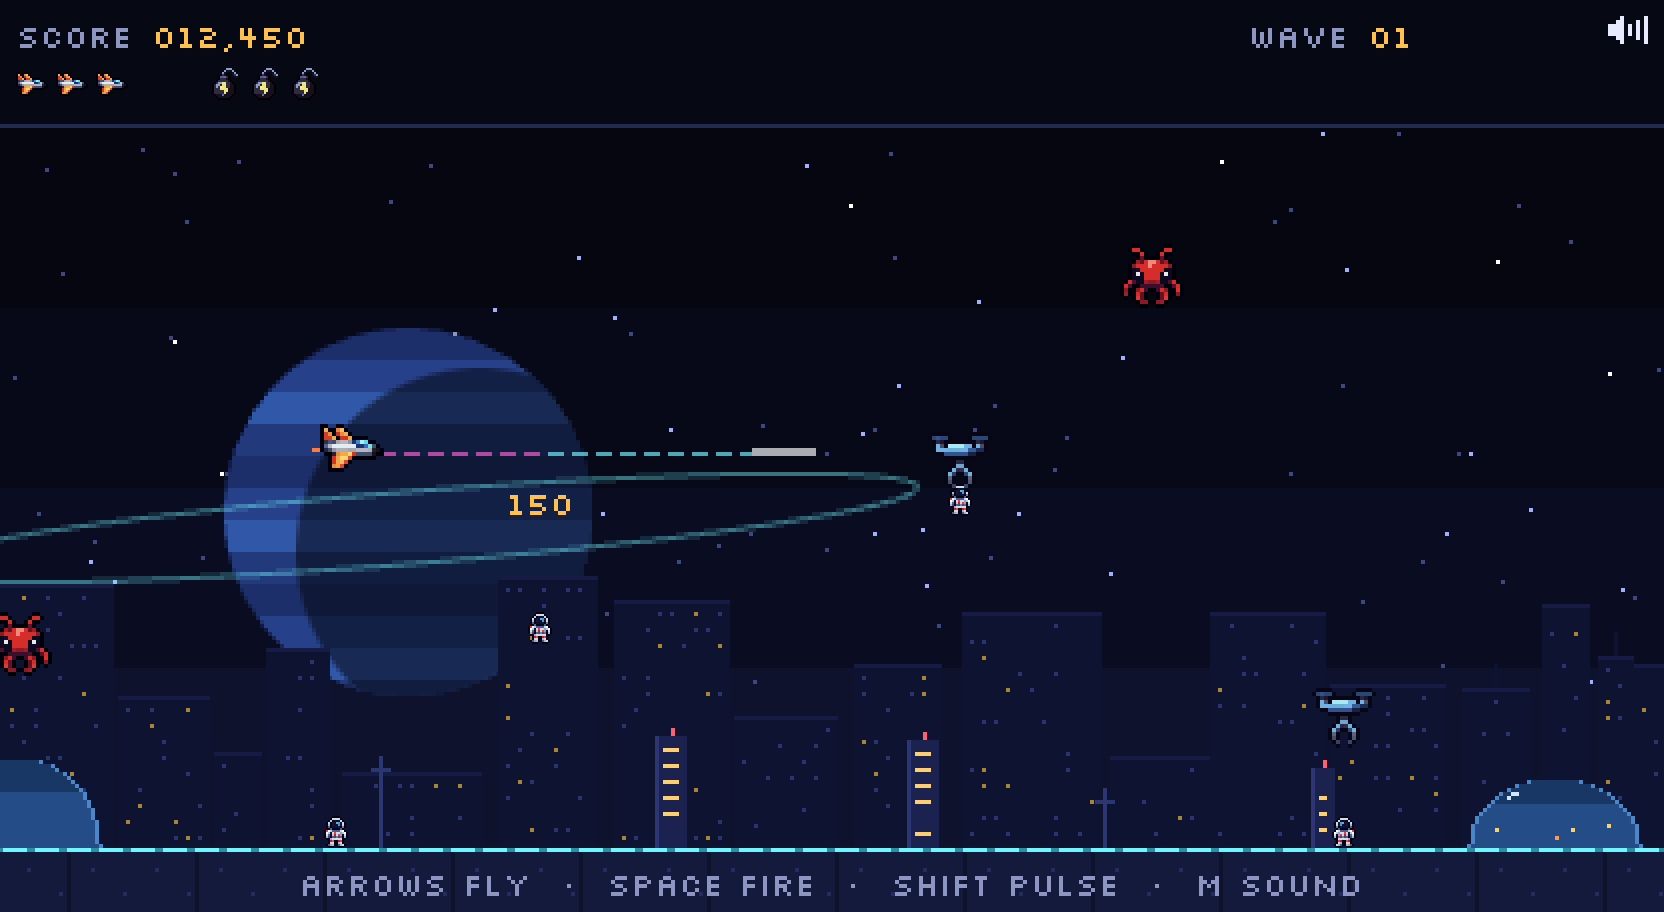
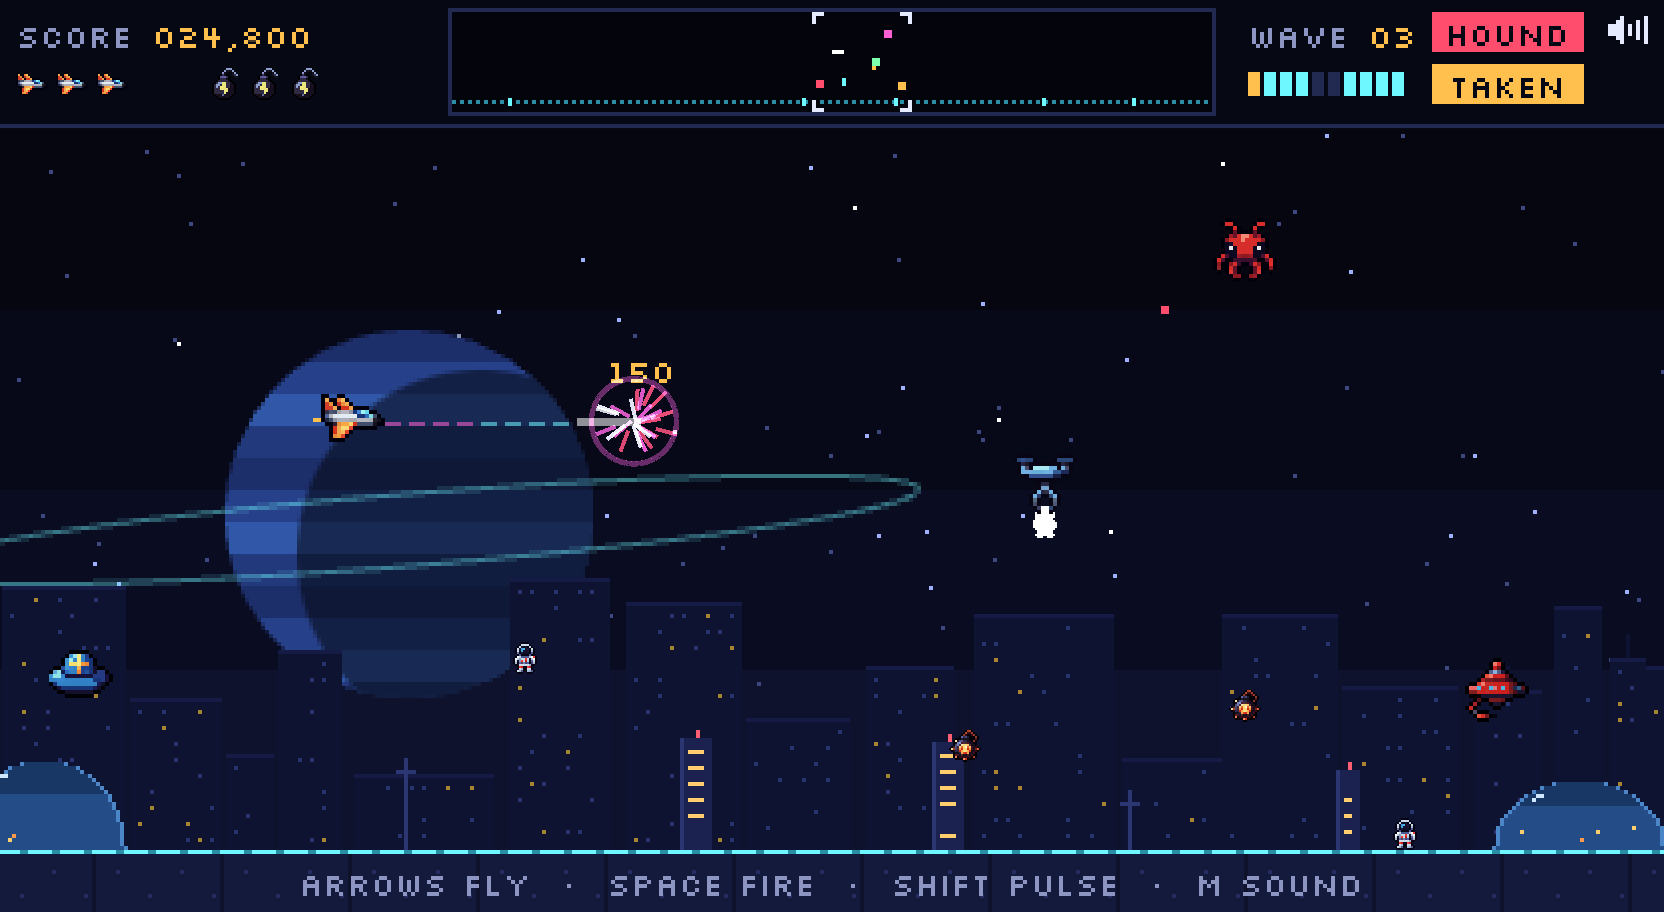
Refresh README and screenshot for the full game
Status now reads feature-complete, with the balance pass and a real-phone
check still to come. Adds the rules for enemy fire, the pulse, waves,
Hounds and the dark ring, the full roster with mines, a Touch column in
the controls, and a new hero screenshot.

diff --git a/README.md b/README.md
@@ -4,7 +4,7 @@
 
 **Hold the ring. Shoot the Snatchers. Catch the colonists.**
 
-A side-scrolling patrol shooter on a looping orbital ring. It runs in the browser with a keyboard and mouse or a controller.
+A side-scrolling patrol shooter on a looping orbital ring. It runs in the browser with a keyboard and mouse, a controller, or touch on a phone.
 
 ### [▶ Play it now](https://leeeeeroyj.github.io/sentinel/)
 
@@ -14,7 +14,7 @@ A side-scrolling patrol shooter on a looping orbital ring. It runs in the browse
 ![Vite](https://img.shields.io/badge/Vite-8-646cff?logo=vite&logoColor=white)
 [![License: MIT](https://img.shields.io/badge/License-MIT-yellow.svg)](LICENSE)
 
-![Sentinel gameplay: the patrol craft fires its laser across the ring while a Snatcher lifts a colonist away, another drops onto the hull, a rescued colonist falls and two Husks close in](docs/screenshot.png)
+![Sentinel gameplay: the patrol craft destroys a Husk with its laser while a Snatcher lifts a colonist away, a Hound and a Husk close in, a Minelayer leaves mines behind it, and the scanner and alarm lamps light up the top bar](docs/screenshot.png)
 
 </div>
 
@@ -25,19 +25,15 @@ Sentinel is an original arcade game inspired by the mechanics of Williams Electr
 - **A world that loops.** Fly far enough either way and you come back round to where you started. The hull's domes, towers and masts repeat every lap, so you learn the ring as you play.
 - **Push the way you want to go.** No thrust or reverse buttons: push left or right to fly and face that way, and the view swings ahead of you when you turn.
 - **Rescue, not just shooting.** Every abduction is a race. Hit a Snatcher low and its catch drops safely; hit it high and you'd better be underneath.
-- **Warning before harm.** New hostiles fade in inside a closing ring, harmless until they're solid.
+- **Warning before harm.** New hostiles fade in inside a closing ring, harmless until they're solid, and shooters flash white just before they fire.
 - **Sound with no audio files.** Sound effects are generated in code, sfxr style, when the game loads.
 
 ## Status
 
-Sentinel is in active development. This build is the **first playable** version (milestone 2 of 7): the laser, colonists, Snatchers and Husks, rescues, scoring, ships and respawns. Still to come:
+Sentinel is in active development and is **feature-complete** (milestone 6 of 7): the full roster, waves, the scanner, sound, explosions and touch controls are all in. Still to come:
 
-- Minelayers and their mines, Hounds that punish stalling, enemy fire and the pulse (smart bomb)
-- Waves, wave bonuses, the ring going dark when the last colonist is lost, and extra ships every 10,000 points
-- A long-range scanner, alarm lamps, sound effects and explosions
-- Touch controls for phones
-
-Until waves arrive, a new group of five Snatchers warps in whenever the last one is gone.
+- A balance pass, tuned from real play
+- Touch controls checked on a real phone (so far tested in emulation)
 
 ## How to play
 
@@ -48,10 +44,22 @@ Ten colonists walk the hull. Snatchers seek them out, drop onto them and climb s
 - **A short fall** (80 px, five tiles, or less) they survive on their own, for 250. From any higher, they're lost.
 - **Ramming a hostile** destroys it, but costs you a ship. You start with 3. After a respawn your craft blinks and can't be hit for 2 seconds.
 
+- **Hostiles shoot** when they're on screen. Each one flashes white just before it fires an aimed shot.
+- **The pulse** destroys everything on screen, including mines and shots, and scores every kill. You start with 3, and the HUD shows how many are left.
+- **Waves.** Each wave brings more Snatchers and Minelayers, a little faster and shooting more often. Clear every Snatcher, Husk and Minelayer to end it. Each colonist still alive pays a bonus of 100 × the wave number (up to 500 each).
+- **Don't dawdle.** Take too long on a wave and the HOUND lamp blinks: Hounds start warping in near you, one every 10 seconds, until the wave ends.
+- **Lose every colonist** and the ring goes dark: every Snatcher fuses into a Husk and new arrivals come as Husks. Waves 5, 10, 15 and so on bring back all ten colonists and the lights.
+- **Every 10,000 points** earns an extra ship and an extra pulse.
+
+The scanner across the top shows the whole ring, centred on you, and an amber arrow on the screen's edge points to anyone being carried off out of sight.
+
 | Hostile | Points | Behaviour |
 | --- | ---: | --- |
 | Snatcher | 150 | Drifts over the nearest colonist, drops onto them and lifts them away. |
 | Husk | 150 | A Snatcher fused with its catch. Twitchy: it homes in on you, never in a straight line. |
+| Minelayer | 250 | Cruises round the ring, leaving mines behind it. It never shoots. |
+| Hound | 200 | Arrives when a wave drags on. It hunts you hard but swings wide when you turn. |
+| Mine | — | Hangs in the air for 6 seconds. Lasers pass straight through it, so only the pulse clears it. |
 
 | Rescue | Points |
 | --- | ---: |
@@ -61,16 +69,17 @@ Ten colonists walk the hull. Snatchers seek them out, drop onto them and climb s
 
 ## Controls
 
-| | Keyboard + mouse | Controller |
-| --- | --- | --- |
-| Fly and turn | ← → or A D | Left stick or D-pad |
-| Climb and dive | ↑ ↓ or W S | Left stick or D-pad |
-| Fire | Hold Space, J or left click | Hold A, RT or RB |
-| Sound on / off | M, or click the speaker (top right) | Y |
-| Start | Enter or Space, or click **START** | A or Start |
-| Back to the title | Esc | Back |
+| | Keyboard + mouse | Controller | Touch |
+| --- | --- | --- | --- |
+| Fly and turn | ← → or A D | Left stick or D-pad | Left stick |
+| Climb and dive | ↑ ↓ or W S | Left stick or D-pad | Left stick |
+| Fire | Hold Space, J or left click | Hold A, RT or RB | Hold **FIRE** |
+| Pulse | Shift, K or right click | B, LT or LB | Tap **PULSE** |
+| Sound on / off | M, or click the speaker (top right) | Y | Tap the speaker |
+| Start | Enter or Space, or click **START** | A or Start | Tap **START** |
+| Back to the title | Esc | Back | **TITLE** on the game-over screen |
 
-A weak push nudges the craft without turning it. Controllers show up once you press a button.
+A weak push nudges the craft without turning it. Controllers show up once you press a button. On a phone, play in landscape: on wide screens the touch controls sit in the bars beside the game.
 
 ## Run it locally
 
@@ -89,11 +98,14 @@ Every push to `main` builds the game and deploys it to GitHub Pages.
 ```
 src/
   main.ts            game setup
-  config.ts          tunables: ring size, flight, laser, points, colours
+  config.ts          tunables: ring size, flight, hostiles, waves, points, colours
   world.ts           ring maths (wrap-around distance) and the seeded generator
   backdrop.ts        stars, planet, skyline and the hull, baked to tiling textures
-  entities/          colonists, Snatchers and Husks
-  controls.ts        keyboard, mouse and gamepad input
+  waves.ts           the wave table: counts, pace, bonuses
+  entities/          colonists and hostiles
+  controls.ts        keyboard, mouse, gamepad and touch input
+  touch.ts           on-screen stick and buttons for phones
+  effects.ts         sparks, shockwaves, shake and screen wobble
   sfx.ts             procedural sound effects
   scenes/            title screen, the ring and the HUD
 assets/sprites/      the game's 16 × 16 sprites

diff --git a/design/BUILD-PLAN.md b/design/BUILD-PLAN.md
@@ -104,4 +104,6 @@ Headless Chrome via CDP with real key, mouse and touch events. Dev builds expose
 - **Not covered by tests:** prefers-reduced-motion is in the code but not exercised headless.
 - **Milestone 6 (touch and mobile), committed and pushed 2026-11-13; real-phone check still to do.** `src/touch.ts` merges Space Raider's stick and Mars Patrol's buttons: a fly stick under the left thumb, FIRE (hold) and PULSE (tap) under the right, drawn as page elements and read from page-level pointer events. On wide phones they fill the bars beside the game (anywhere in the left bar takes the stick, anywhere in the right bar the nearer button); otherwise they sit over the game's bottom corners at the mockup's spots (`TOUCH` in config). Shown while flying on `(pointer: coarse)` screens or after a first touch, hidden on the title and game over. Touch feeds the same `ControlState` as keys and pads; the hint strip switches to touch.
 - **Verified (M6):** `node tools/m6-test.mjs . <out-dir>`: 40/40, with CDP touch emulation at 844 × 390 (corner layout) and 932 × 390 (side-bar layout): tap START; controls shown, fully on screen, 38–94 px across; the stick flies right, turns left, climbs; FIRE kills while the other thumb holds the stick; a PULSE tap fires one pulse; a catch and a stick-down landing (+500); the speaker toggles sound by tap; controls hide on game over with a touch hint; RETRY by tap; controls return. Portrait shows the turn-sideways overlay. M1–M5 still pass.
-- **Next:** a real phone (needs the user), then milestone 7 (polish).
+- **README and screenshot refreshed (2026-11-13),** ahead of milestone 7 because the published README still said milestone 2: Status (feature-complete; balance pass and real-phone check to come), rules for enemy fire, pulse, waves, Hounds, the dark ring and extra ships, the full roster with mines, a Touch column in the controls, and a new hero shot (wave 3, kill burst, lift in progress, Hound, Minelayer and mines, both lamps lit).
+- **Autopilot balance probe (not committed):** the concept sheet's demo pilot run in headless Chrome cleared waves 1–3 in 62, 83 and 75 s, losing 2–3 ships and about 2 colonists a wave, and never pulsed. A crude bot, so only a sanity check: waves take about a minute or so and nothing is out of reach. The real tuning needs human play.
+- **Next:** a real phone and a play-through (needs the user), then the balance pass to finish milestone 7.
